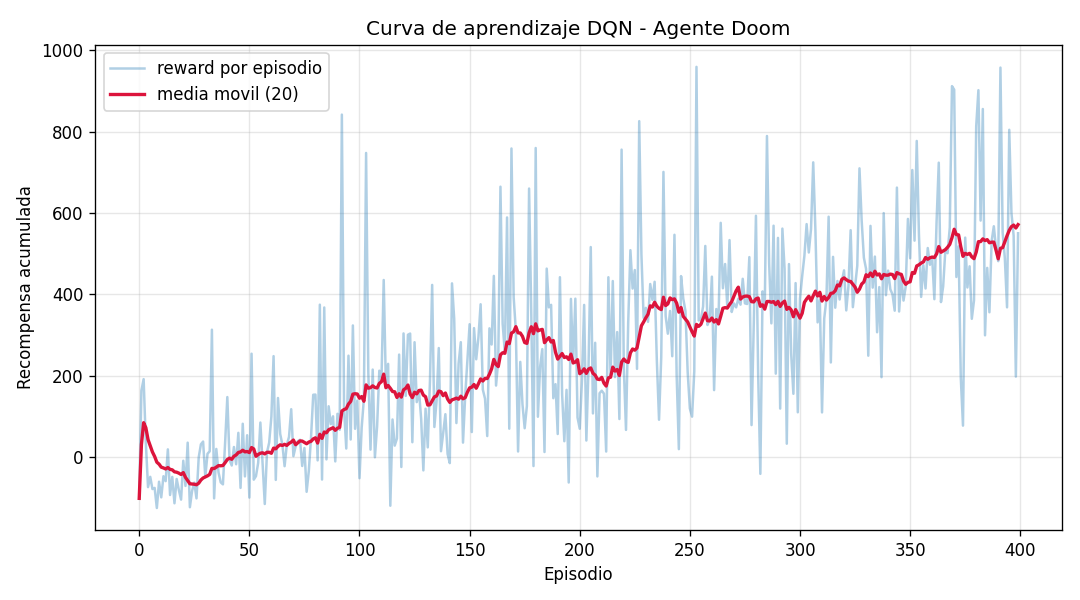
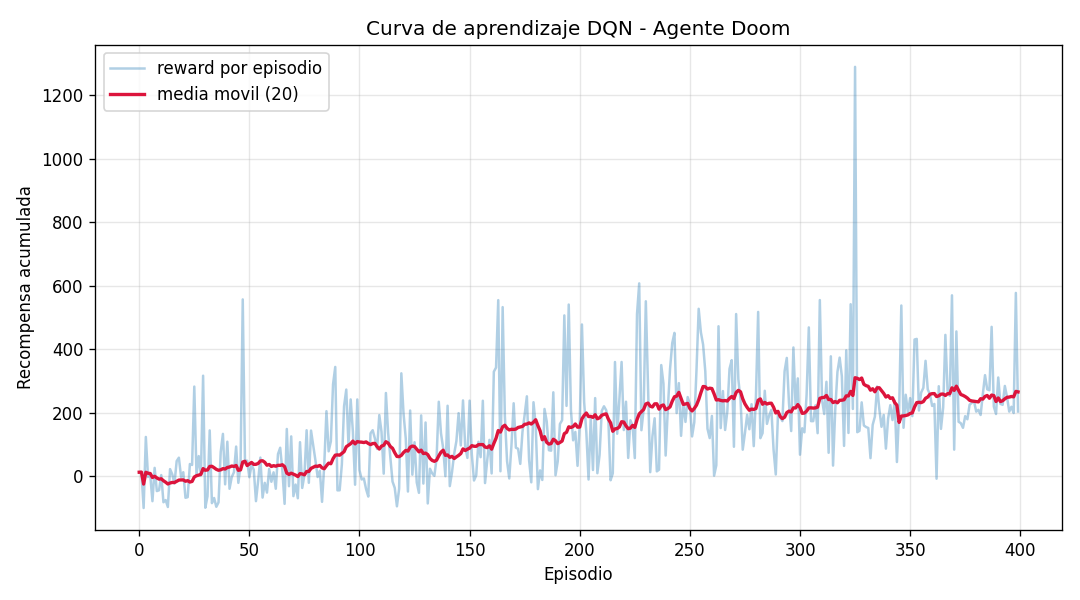
feat: DQN re-entrenado con recompensa pro-combate (kill x100, dano x0.5)

diff --git a/src/env/rl_env.py b/src/env/rl_env.py
@@ -15,8 +15,10 @@ from src.perception.detector import Detector
 from src.perception.features import STATE_DIM, extract_state
 from src.policy.actions import Action, action_to_vizdoom
 
-KILL_REWARD = 20.0
-HEALTH_PENALTY = 0.1
+# Balance de recompensa: matar debe ser mas rentable que solo correr.
+PROGRESS_SCALE = 0.5   # atenua el reward de avanzar del escenario
+KILL_REWARD = 100.0    # premio fuerte por cada baja
+HEALTH_PENALTY = 0.5   # penaliza recibir dano (no matar => recibir disparos)
 
 
 class RLEnv:
@@ -54,7 +56,7 @@ class RLEnv:
         frame, reward_env, done, info = self.env.step(
             action_to_vizdoom(action), tics=self.frame_skip
         )
-        reward = float(reward_env)
+        reward = PROGRESS_SCALE * float(reward_env)
 
         if done or frame is None:
             next_state = np.zeros(self.state_dim, dtype=np.float32)